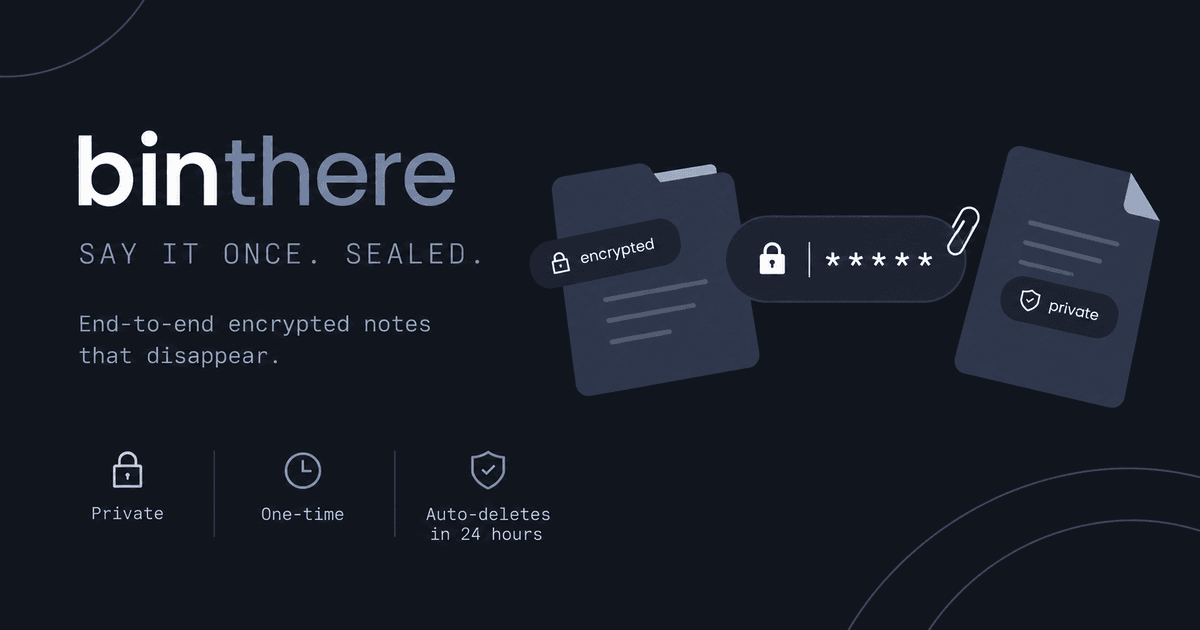
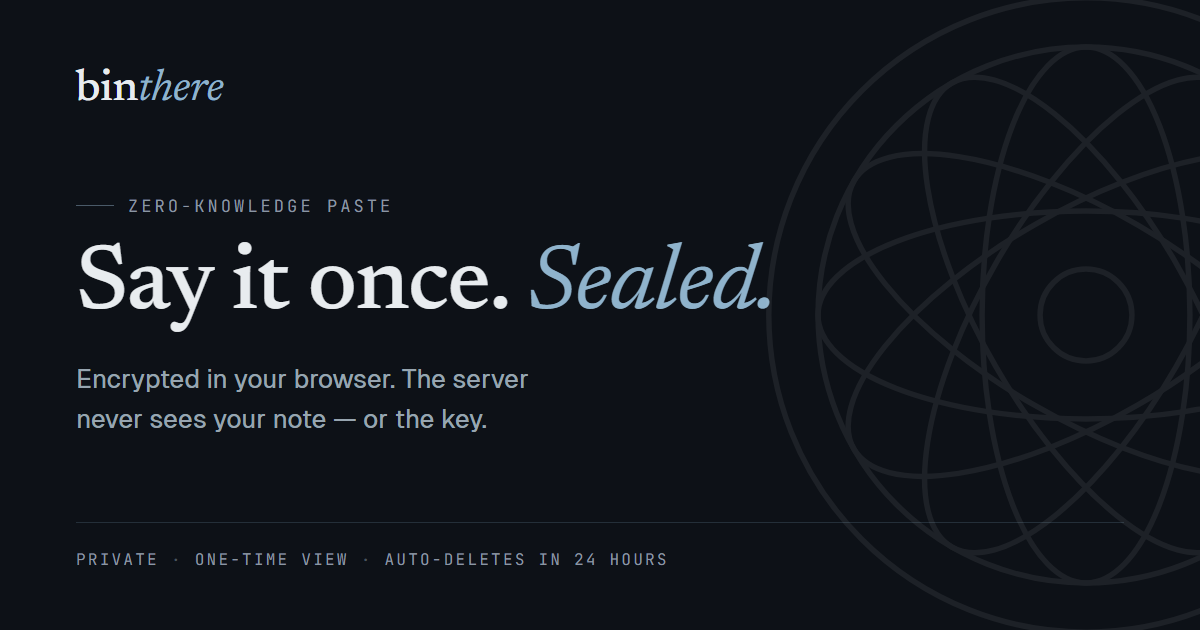
build(og): add source + renderer for the link-preview card
Add tools/opengraph.html (the 1200x630 card, standalone copy of the Iron
Gall dark preset) and tools/render-og.mjs (dependency-free static server +
headless Chrome screenshot) as the source of truth for public/opengraph.png.
Regenerate the PNG, lint tools/*.mjs as Node, and document the workflow.

diff --git a/tools/opengraph.html b/tools/opengraph.html
@@ -1,0 +1,110 @@
+<!doctype html>
+<!--
+  Source of truth for public/opengraph.png (1200×630 link-preview card).
+
+  Not shipped — a build input. Render it with:
+
+      node tools/render-og.mjs
+
+  Design notes: this is the same "Iron Gall" system as the app (DESIGN.md), with
+  the dark "Plate" preset hardcoded — tokens are copied rather than imported so
+  the card renders standalone and never drifts with a stylesheet refactor that
+  was only meant to affect the UI. Deliberately omitted from the site's ambience:
+  the 1px engraved grain, which turns into moiré once a chat client downscales
+  the card to a thumbnail.
+-->
+<html lang="en">
+    <head>
+        <meta charset="utf-8" />
+        <title>binthere — opengraph card</title>
+        <style>
+            @font-face { font-family: 'Newsreader'; font-style: normal; font-weight: 500; src: url('/public/fonts/newsreader-500.woff2') format('woff2'); }
+            @font-face { font-family: 'Newsreader'; font-style: italic; font-weight: 400; src: url('/public/fonts/newsreader-400i.woff2') format('woff2'); }
+            @font-face { font-family: 'Geist'; font-style: normal; font-weight: 400; src: url('/public/fonts/geist-400.woff2') format('woff2'); }
+            @font-face { font-family: 'JetBrains Mono'; font-style: normal; font-weight: 400; src: url('/public/fonts/jbmono-400.woff2') format('woff2'); }
+
+            :root {
+                --paper: #0d1117;
+                --rule: #242f39;
+                --ink: #e8ecef;
+                --ink-2: #97a5b0;
+                --ink-3: #8b96a2;
+                --ink-4: #49535d;
+                --accent: #8fb3cc;
+                --serif: 'Newsreader', Georgia, serif;
+                --sans: 'Geist', -apple-system, sans-serif;
+                --mono: 'JetBrains Mono', ui-monospace, monospace;
+            }
+
+            * { margin: 0; padding: 0; box-sizing: border-box; }
+            html, body { width: 1200px; height: 630px; overflow: hidden; }
+            body { background: var(--paper); color: var(--ink);
+                -webkit-font-smoothing: antialiased; text-rendering: geometricPrecision; }
+
+            .card { position: relative; width: 1200px; height: 630px; padding: 68px 76px 60px;
+                display: flex; flex-direction: column; overflow: hidden; }
+
+            /* Guilloché rosette — the site's watermark, bled off the right edge so the
+               left-aligned text column keeps the whole card's weight. */
+            .rosette { position: absolute; top: 50%; right: -236px; width: 700px; height: 700px;
+                transform: translateY(-50%); color: var(--ink); opacity: .07; }
+
+            .brand { font-family: var(--serif); font-size: 44px; line-height: 1; letter-spacing: -.01em; }
+            .brand i { font-style: italic; font-weight: 400; color: var(--accent); }
+
+            .body { flex: 1; display: flex; flex-direction: column; justify-content: center; }
+
+            .eyebrow { display: inline-flex; align-items: center; gap: 14px; font-family: var(--mono);
+                font-size: 17px; letter-spacing: .18em; text-transform: uppercase; color: var(--ink-3); }
+            .eyebrow::before { content: ''; width: 38px; height: 1px; background: #4a5a68; }
+
+            .title { margin-top: 22px; font-family: var(--serif); font-weight: 500; font-size: 92px;
+                line-height: 1.04; letter-spacing: -.015em; }
+            .title em { font-style: italic; font-weight: 400; color: var(--accent); }
+
+            .sub { margin-top: 24px; max-width: 30ch; font-family: var(--sans); font-size: 26px;
+                line-height: 1.55; color: var(--ink-2); }
+
+            .foot { display: flex; align-items: baseline; justify-content: space-between; gap: 24px;
+                padding-top: 26px; border-top: 1px solid var(--rule);
+                font-family: var(--mono); font-size: 16px; letter-spacing: .14em; text-transform: uppercase; }
+            .ledger { color: var(--ink-3); }
+            .ledger span { margin: 0 12px; color: var(--ink-4); }
+        </style>
+    </head>
+    <body>
+        <div class="card">
+            <svg class="rosette" viewBox="0 0 64 64" fill="none" aria-hidden="true">
+                <g stroke="currentColor" stroke-width="0.5">
+                    <circle cx="32" cy="32" r="29" />
+                    <circle cx="32" cy="32" r="24.5" />
+                    <ellipse cx="32" cy="32" rx="24.5" ry="9.5" />
+                    <ellipse cx="32" cy="32" rx="24.5" ry="9.5" transform="rotate(30 32 32)" />
+                    <ellipse cx="32" cy="32" rx="24.5" ry="9.5" transform="rotate(60 32 32)" />
+                    <ellipse cx="32" cy="32" rx="24.5" ry="9.5" transform="rotate(90 32 32)" />
+                    <ellipse cx="32" cy="32" rx="24.5" ry="9.5" transform="rotate(120 32 32)" />
+                    <ellipse cx="32" cy="32" rx="24.5" ry="9.5" transform="rotate(150 32 32)" />
+                    <circle cx="32" cy="32" r="4.2" />
+                </g>
+            </svg>
+
+            <div class="brand">bin<i>there</i></div>
+
+            <div class="body">
+                <p class="eyebrow">zero-knowledge paste</p>
+                <h1 class="title">Say it once. <em>Sealed.</em></h1>
+                <p class="sub">
+                    Encrypted in your browser. The server never sees your note —
+                    or the key.
+                </p>
+            </div>
+
+            <div class="foot">
+                <p class="ledger">
+                    Private<span>·</span>One-time view<span>·</span>Auto-deletes
+                    in 24 hours
+                </p>
+            </div>
+        </div>
+    </body>
+</html>

diff --git a/eslint.config.js b/eslint.config.js
@@ -1,7 +1,8 @@
 // ESLint flat config for binthere. Style is enforced lightly — the point is to
 // catch real bugs (undeclared globals, unused vars, accidental debugger) across
-// the three runtime surfaces: the browser client (public/js), the Worker (src),
-// and the vitest suites (test). The vendored qrcode.js is exempt.
+// the runtime surfaces: the browser client (public/js), the Worker (src), the
+// vitest suites (test), the CLI (cli), and build-time tooling (tools). The
+// vendored qrcode.js is exempt.
 import js from '@eslint/js';
 import globals from 'globals';
 
@@ -48,6 +49,12 @@ export default [
   // Its tests import vitest APIs explicitly, so plain Node globals suffice.
   {
     files: ['cli/**/*.js', 'cli/**/*.mjs'],
+    languageOptions: { globals: { ...globals.node } },
+  },
+
+  // Build-time asset tooling (tools/render-og.mjs): plain Node scripts, never shipped.
+  {
+    files: ['tools/**/*.mjs'],
     languageOptions: { globals: { ...globals.node } },
   },
 ];

diff --git a/README.md b/README.md
@@ -183,6 +183,9 @@ npm run deploy           # creates the Worker, Durable Object, and rate limiter
 - Update the hardcoded canonical URLs: `og:url` / `og:image` in `public/index.html` and
   `Canonical` in `public/.well-known/security.txt` point at `binthere.gaury.dev`; the
   footer and `security.txt` `Policy` point at `github.com/nxfu/binthere`.
+- The link-preview card `public/opengraph.png` also has that domain printed on it. Edit
+  [`tools/opengraph.html`](./tools/opengraph.html) and re-render with `node tools/render-og.mjs`
+  (needs a local Chrome/Chromium; pass `--browser <path>` or set `$CHROME` if it isn't found).
 - `npm run dev` works with placeholder KV ids — KV is emulated locally.
 - **Cost note on `never` expiry:** the official clients always create 24-hour one-time
   notes, but the wire format (and the API) accepts `expire: "never"`. Such a paste is
@@ -237,6 +240,7 @@ src/
 test/              vitest suites (run in workerd) + genvectors.mjs (vector regenerator)
                    + vectors.expected.txt (pinned vector output, diffed in CI)
 tools/             verify-vectors.py — independent Python cross-check of the frozen vectors
+                   opengraph.html + render-og.mjs — source & renderer for public/opengraph.png
 cli/               the npm-published CLI client (own package.json + Node-environment tests;
                    vendor/ mirrors public/js/{bytes,format,crypto,qrcode}.js, drift-tested)
 SPEC.md SECURITY.md ARCHITECTURE.md
